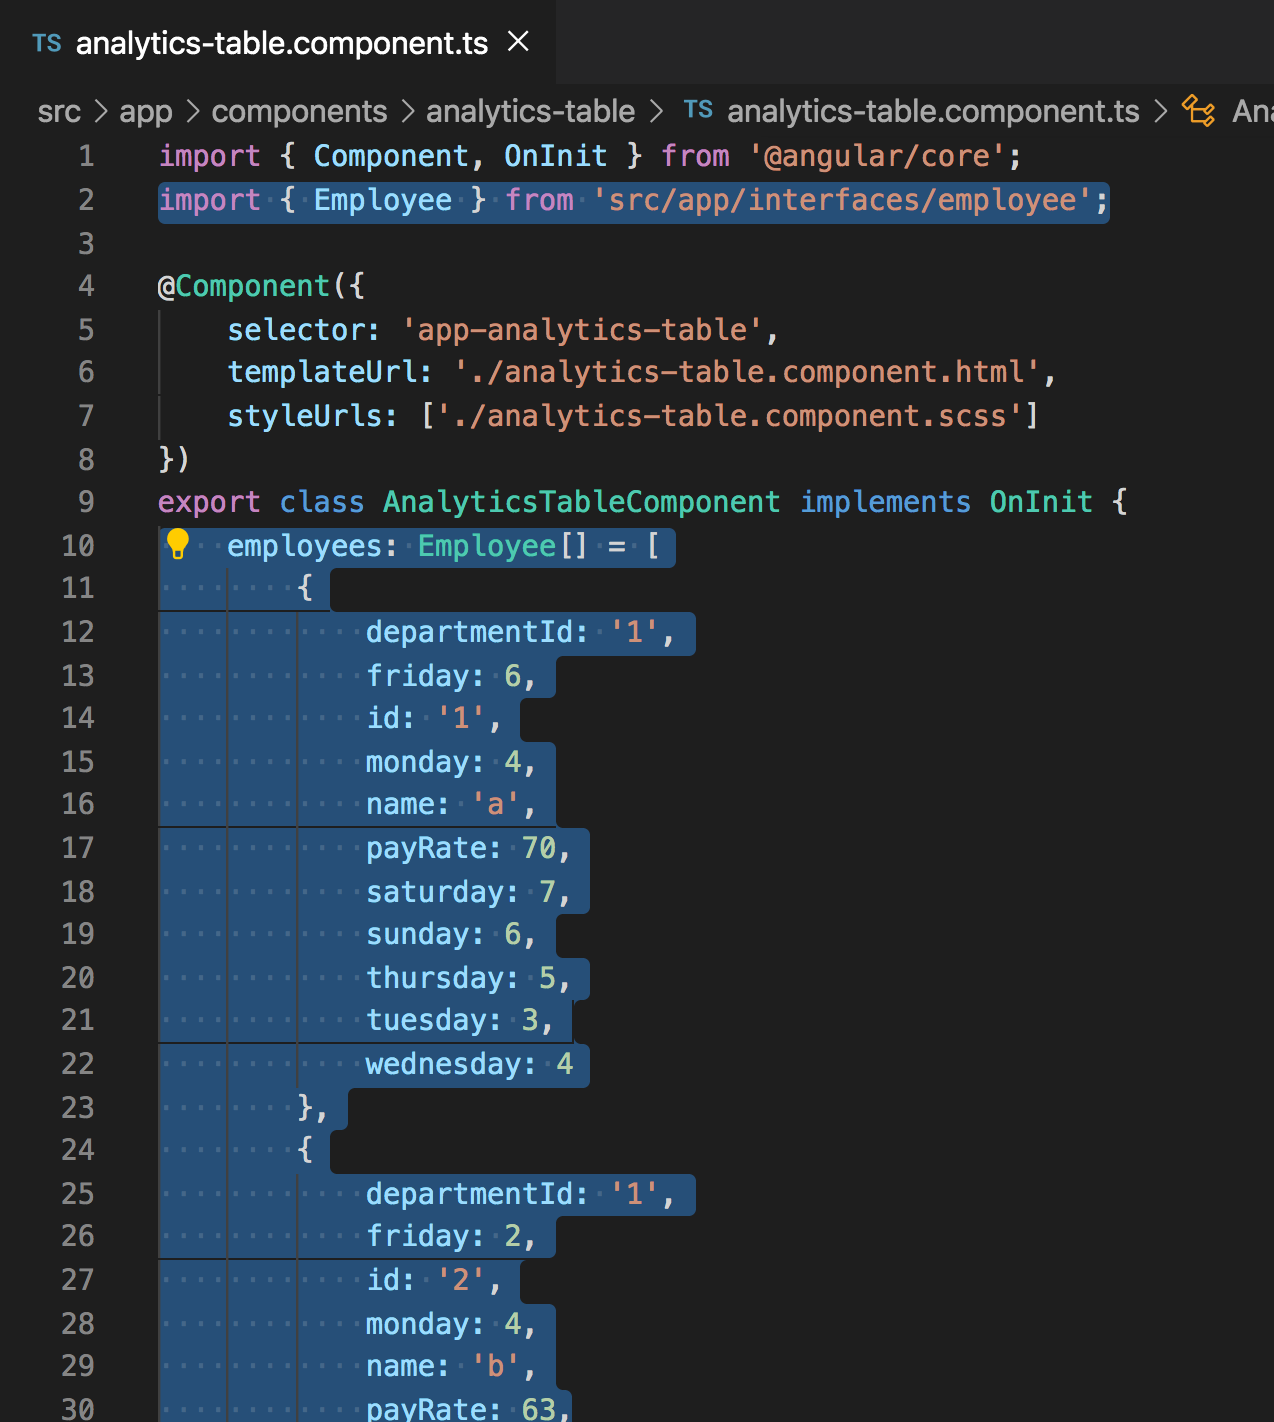
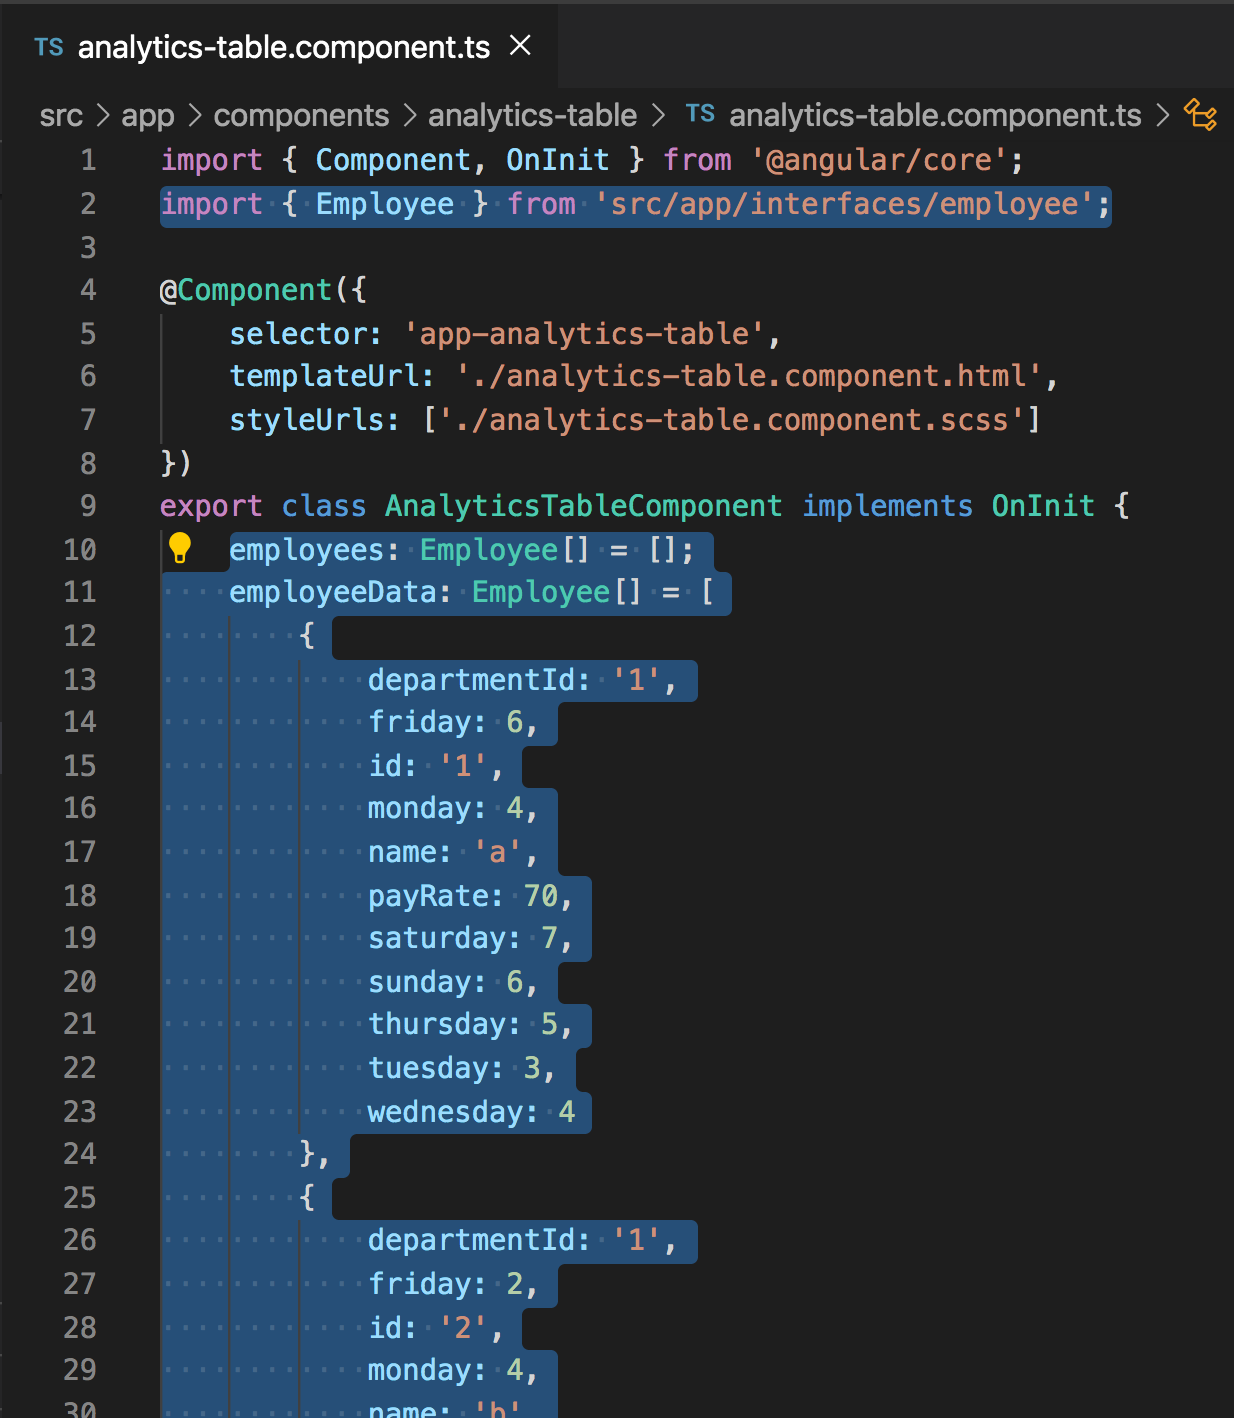
Displaying employee data

Changed region(s): [[0.1232, 0.2482, 0.893, 1.0], [0.0, 0.0, 1.0, 1.0]]

diff --git a/unit-09/pt2-nested-table-creation.md b/unit-09/pt2-nested-table-creation.md
@@ -1,0 +1,94 @@
+# Nested Table Creation
+
+## Introduction
+
+We've now gotten to the point where we have a component nested within a parent component. When we click on each of the tabs, we all we see is `analytics-table works!`. We want to now switch out that text with a table to display information about each of the employees.
+
+![](img/analytics_example.png)
+
+
+To get this going, copy the following html into the `analytics-table.component.html` file. This should be the only html in that file.
+
+```
+<div>
+    <table>
+        <thead>
+            <th>Name</th>
+            <th *ngFor="let day of weekdays">{{day}}</th>
+            <th>Total Hours</th>
+            <th>Pay Rate</th>
+            <th>Total Pay</th>
+        </thead>
+    
+        <tbody>
+            <tr *ngFor="let employee of employees; let i = index">
+                <td>{{employee.name}}</td>
+                <td *ngFor="let day of weekdays">{{employee[day]}}</td>
+                <td class="total-cell"></td>
+                <td>{{(employee.payRate | currency)}}/hr</td>
+                <td></td>
+            </tr>
+        </tbody>
+    </table>
+</div>
+```
+
+![](img/analytics_table_html_start.png)
+
+As you're looking at the code, it should look pretty familiar to other code that we've written, and that's because it is. This is resembling the code that we used in the `TimesheeComponent`, execpt this time we won't be using inputs, we'll just be displaying data that has already been created.
+
+## Acceptance Test
+
+At this point you should be able to go to the `./analytics` route and see the same thing as the image below. Test it out now.
+
+![](img/analytics_table_start_display.png)
+
+
+## Diplaying the correct data
+
+At this point you may be seeing that we have an `employees: Employee[]` variable and we're looping through that variable within the `analytics-table.component.html` file, but how do we get that populated correctly according to the current department tab that we're on?
+
+This is where the combination of property binding and the `@Input()` decorator come into play. We have three piece of code that we need to add next to display the correct employees. Do it in this order following order. See the images after the three steps to make sure you have everything correct.
+
+1. Add an `Input()` decorator in the `analytics-table.component.ts` file to create a variable that will accept the current department id.
+
+```
+@Input()
+departmentId: string;
+```
+
+2. Bind the current department id from the parent `AnalyticsComponent` into the `AnalyticsTableComponent`. Replace the `mat-tab-group` code that is currently in the `analytics.component.html` file with the code below.
+
+```
+<mat-tab-group mat-align-tabs="center">
+    <mat-tab label="Customer Success">
+        <app-analytics-table [departmentId]="'1'"></app-analytics-table>
+    </mat-tab>
+    <mat-tab label="Sales">
+        <app-analytics-table [departmentId]="'2'"></app-analytics-table>
+    </mat-tab>
+    <mat-tab label="Finance">
+        <app-analytics-table departmentId="3"></app-analytics-table>
+    </mat-tab>
+</mat-tab-group>
+```
+
+3. Set the `employees` variable in `analytics-table.component.ts` file equal to the employees from the `employeeData` variable that have the department id that is currently being passed to the `departmentId` `@Input()` within the `ngOnInit()`.
+
+
+```
+ngOnInit(): void {
+    this.employees = this.employeeData.filter(employee => employee.departmentId === this.departmentId);
+}
+```
+
+![](img/input_decorator.png)
+
+![](img/parent_property_binding.png)
+
+![](img/filter_employees.png)
+
+
+
+
+

diff --git a/unit-09/pt1-nested-components.md b/unit-09/pt1-nested-components.md
@@ -62,12 +62,13 @@ The styling that we added centers the `<mat-card>` in the center of the page.
 At this point you should be able to restart your serve and navigate to the `./analytics` route by clicking on the `Analytics` text on the top navbar. Once there, you should be able to click on each of the three different tabs and see the focus change from one tab to the other as you click different departments.
 
 
-## Populate Each MatTab
+## Use Selector of Nested Component
 
-We are making good progress so far having setup our basic `MatTabGroup`. Now we want to populate each `MatTab` with data depending on which department has been clicked. To help us display content, we will first add some static data to the `analytics-table.component.ts` file. Above the `constructor`, add the following code.
+We are making good progress so far having setup our basic `MatTabGroup`. Now we want to populate each `MatTab` with data depending on which department has been clicked. To help us display content, we will first add two variables `employees` and `employeeData`. `employeeData` will be some static data that we will temporarily use in `analytics-table.component.ts` file. Above the `constructor`, add the following code.
 
 ```
-employees: Employee[] = [
+employees: Employee[] = [];
+employeeData: Employee[] = [
     {
         departmentId: '1',
         friday: 6,
@@ -123,7 +124,7 @@ employees: Employee[] = [
 ];
 ```
 
-Don't forget to also add the `Employee` interface import at the top of the file as well. `import { Employee } from 'src/app/interfaces/employee';`. Eventually this data will be replaced with data from a database, but this will give us some test data to begin with.
+Don't forget to also add the `Employee` interface import at the top of the file as well. `import { Employee } from 'src/app/interfaces/employee';`. Eventually this data will be replaced with data from a database, but this will give us some test data to work with.
 
 ![](img/static_data.png)
 
@@ -151,6 +152,24 @@ Next we want to add html to the `analytics.component.html` file so that we can s
 ![](img/nested_comp_start.png)
 
 Notice the highlighted changes in the image above. We added `<app-analytics-table></app-analytics-table>` into each of the three `<mat-tab>` elements. By placing the `app-analytics-table` selector (found in the `@Component` decorator) of the `AnalyticsTableComponent` as an element within the html of `AnalyticsComponent`, the `AnalyticsTableComponent` has now become a child (nested) component to the parent `AnalyticsComponent`.
+
+
+## Acceptance Test
+
+Your `./analytics` page should now look similar to the image below.
+
+![](img/nested_comp_start_disp.png)
+
+
+## Display a within each tab
+
+In the `analytics-table.component.ts` file paste the following `weekdays` variable directly above the `employees` variable that already exists in there. `weekdays: string[] = ['monday', 'tuesday', 'wednesday', 'thursday', 'friday', 'saturday', 'sunday'];`. This will give us a variable that we can loop through with an `*ngFor` to display each day as a header in a table we will be creating.
+
+![](img/analytics_weekdays.png)
+
+To start on creating that table that will b
+
+
 
 
 
